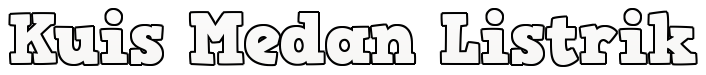
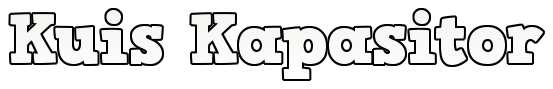
first commit

diff --git a/materi/Materi2/potensial.html b/materi/Materi2/potensial.html
@@ -2,7 +2,7 @@
 <html>
 <head>
     <meta name="viewport" content="width=device-width, initial-scale=1.0">
-    <title>Beda Potensial</title>
+    <title>Energi Potensial dan Potensial Listrik</title>
     <link rel="shortcut icon" type="icon" href="../../img/ico.png">
     <link rel="stylesheet" type="text/css" href="../../css/style.css">
     <link rel="stylesheet" type="text/css" href="../../css/isi.css">    
@@ -26,11 +26,11 @@
 <body>
 
 <div class="headermenu2">
-        <img class="headerimg" src="../../img/potensial.png">
+        <img class="headerimg2" src="../../img/ep.png">
 </div>
 
 <div class="headermenu">
-        <img class="headerimg" src="../../img/potensial.png">
+        <img class="headerimg2" src="../../img/ep.png">
 </div>
 
 <div class="sidebar">

diff --git a/materi/Materi2/potensial3.html b/materi/Materi2/potensial3.html
@@ -2,7 +2,7 @@
 <html>
 <head>
     <meta name="viewport" content="width=device-width, initial-scale=1.0">
-    <title>Beda Potensial</title>
+    <title>Energi Potensial dan Potensial Listrik</title>
     <link rel="shortcut icon" type="icon" href="../../img/ico.png">
     <link rel="stylesheet" type="text/css" href="../../css/style.css">
     <link rel="stylesheet" type="text/css" href="../../css/isi.css">    
@@ -26,11 +26,11 @@
 <body>
 
 <div class="headermenu2">
-        <img class="headerimg" src="../../img/potensial.png">
+        <img class="headerimg2" src="../../img/ep.png">
 </div>
 
 <div class="headermenu">
-        <img class="headerimg" src="../../img/potensial.png">
+        <img class="headerimg2" src="../../img/ep.png">
 </div>
 
 <div class="sidebar">

diff --git a/materi/Materi2/potensial2.html b/materi/Materi2/potensial2.html
@@ -2,7 +2,7 @@
 <html>
 <head>
     <meta name="viewport" content="width=device-width, initial-scale=1.0">
-    <title>Beda Potensial</title>
+    <title>Energi Potensial dan Potensial Listrik</title>
     <link rel="shortcut icon" type="icon" href="../../img/ico.png">
     <link rel="stylesheet" type="text/css" href="../../css/style.css">
     <link rel="stylesheet" type="text/css" href="../../css/isi.css">
@@ -25,11 +25,11 @@
 <body>
 
 <div class="headermenu2">
-        <img class="headerimg" src="../../img/potensial.png">
+        <img class="headerimg2" src="../../img/ep.png">
 </div>
 
 <div class="headermenu">
-        <img class="headerimg" src="../../img/potensial.png">
+        <img class="headerimg2" src="../../img/ep.png">
 </div>
 
 <div class="sidebar">

diff --git a/materi/Materi1/halaman2.html b/materi/Materi1/halaman2.html
@@ -155,11 +155,11 @@
 <center>
 <div class="center">
   <div class="page">
-  <a href="muatan_listrik.html#muatanlistrik">Sebelumnya</a>
-  <a href="muatan_listrik.html#muatanlistrik">1</a>
-  <a href="#muatanlistrik" class="active">2</a>  
-  <a href="halaman3.html#muatanlistrik">3</a>
-  <a href="halaman3.html#muatanlistrik">Selanjutnya</a>
+  <a href="muatan_listrik.html#listrik">Sebelumnya</a>
+  <a href="muatan_listrik.html#listrik">1</a>
+  <a href="#listrik" class="active">2</a>  
+  <a href="halaman3.html#listrik">3</a>
+  <a href="halaman3.html#listrik">Selanjutnya</a>
   </div>
 </div>
 </center>

diff --git a/materi/Materi3/kapasitor.html b/materi/Materi3/kapasitor.html
@@ -25,11 +25,11 @@
 <body>
 
 <div class="headermenu2">
-        <img class="headerimgsel" src="../../img/saraf.png">
+        <img class="headerimgkap" src="../../img/kap.png">
 </div>
 
 <div class="headermenu">
-        <img class="headerimgsel" src="../../img/saraf.png">
+        <img class="headerimgkap" src="../../img/kap.png">
 </div>
 
 <div class="sidebar">

diff --git a/materi/Materi3/kapasitor2.html b/materi/Materi3/kapasitor2.html
@@ -26,11 +26,11 @@
 <body>
 
 <div class="headermenu2">
-        <img class="headerimg2" src="../../img/saraf.png">
+        <img class="headerimgkap" src="../../img/kap.png">
 </div>
 
 <div class="headermenu">
-        <img class="headerimgsel" src="../../img/saraf.png">
+        <img class="headerimgkap" src="../../img/kap.png">
 </div>
 
 <div class="sidebar">

diff --git a/materi/Materi3/kapasitor3.html b/materi/Materi3/kapasitor3.html
@@ -26,11 +26,11 @@
 <body>
 
 <div class="headermenu2">
-        <img class="headerimg2" src="../../img/hewan.png">
+        <img class="headerimgkap" src="../../img/kap.png">
 </div>
 
 <div class="headermenu">
-        <img class="headerimg2" src="../../img/hewan.png">
+        <img class="headerimgkap" src="../../img/kap.png">
 </div>
 
 <div class="sidebar">

diff --git a/materi/Materi3/kapasitor4.html b/materi/Materi3/kapasitor4.html
@@ -26,11 +26,11 @@
 <body>
 
 <div class="headermenu2">
-        <img class="headerimg3" src="../../img/li.png">
+        <img class="headerimgkap" src="../../img/kap.png">
 </div>
 
 <div class="headermenu">
-        <img class="headerimg3" src="../../img/li.png">
+        <img class="headerimgkap" src="../../img/kap.png">
 </div>
 
 <div class="sidebar">

diff --git a/css/style.css b/css/style.css
@@ -71,8 +71,8 @@ a {
   margin-top: 0.5% !important;
 }
 
-.headerimgmedan {
-  width: 20%;
+.headerimgkap {
+  width: 13%;
   text-align: -webkit-center;
   margin-top: 0.4%;
 }
@@ -395,7 +395,7 @@ a {
   }
 
   .headerimg,
-  .headerimgmedan {
+  .headerimgkap {
     width: 70%;
     text-align: -webkit-center;
     margin-bottom: 2%;

diff --git a/materi/Materi1/medanlistrik3.html b/materi/Materi1/medanlistrik3.html
@@ -217,7 +217,7 @@
   <a href="medanlistrik.html#listrik">1</a>
   <a href="medanlistrik2.html#listrik">2</a>
   <a href="medanlistrik3.html#listrik" class="active">3</a>
-  <a href="latihan3.html#listrik">Selanjutnya</a>
+  <a href="latihan1.html#listrik">Selanjutnya</a>
   </div>
 </div>
 </center>
